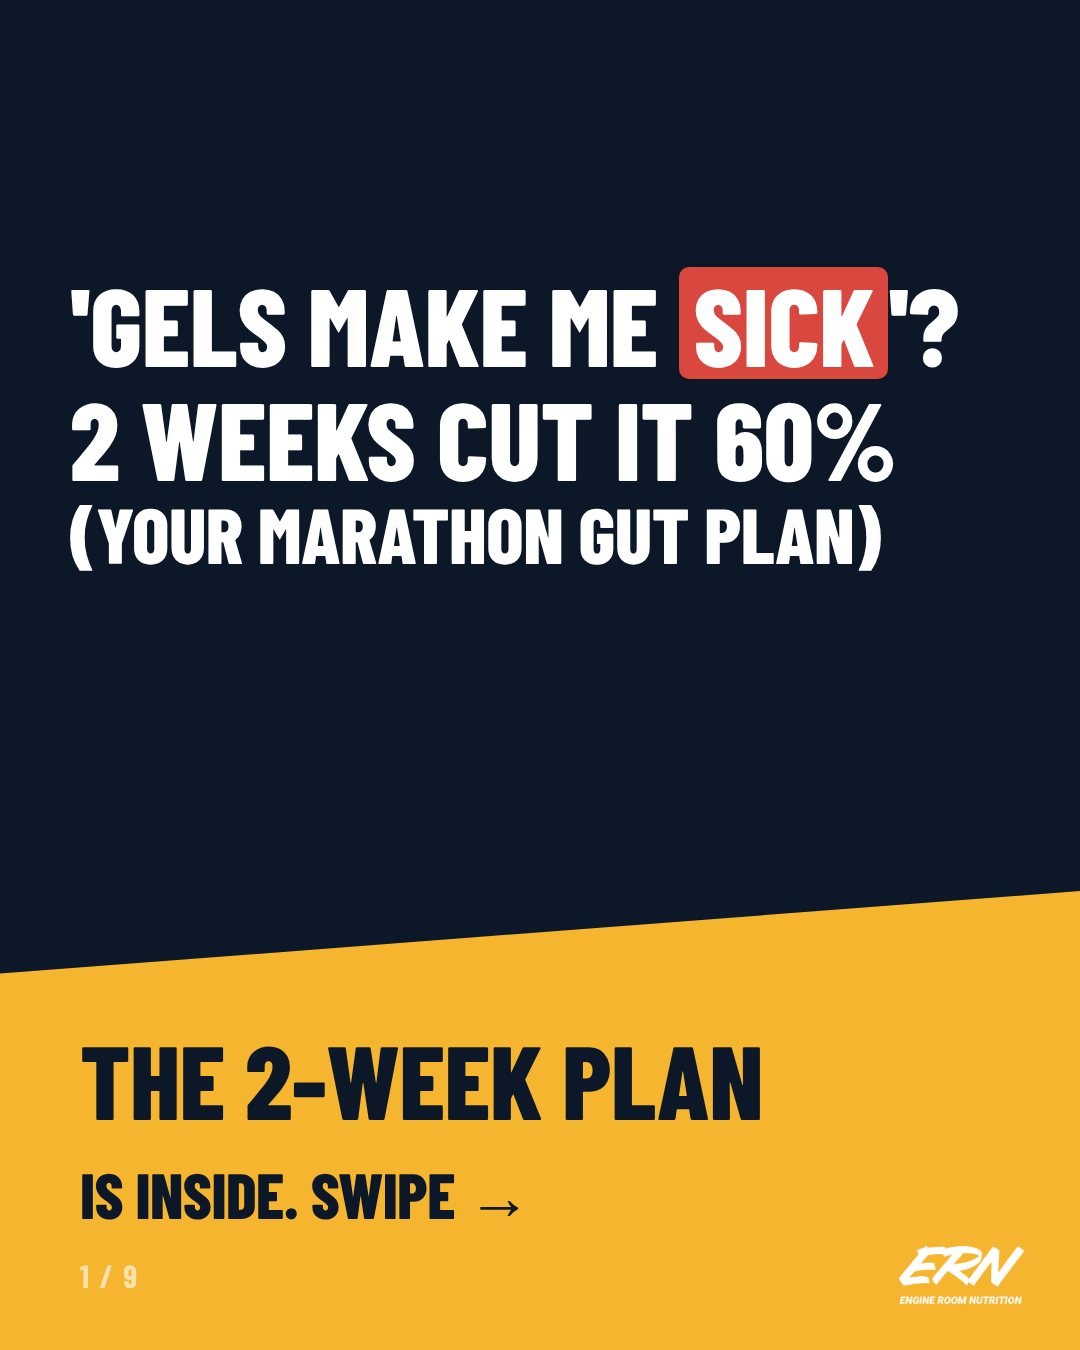
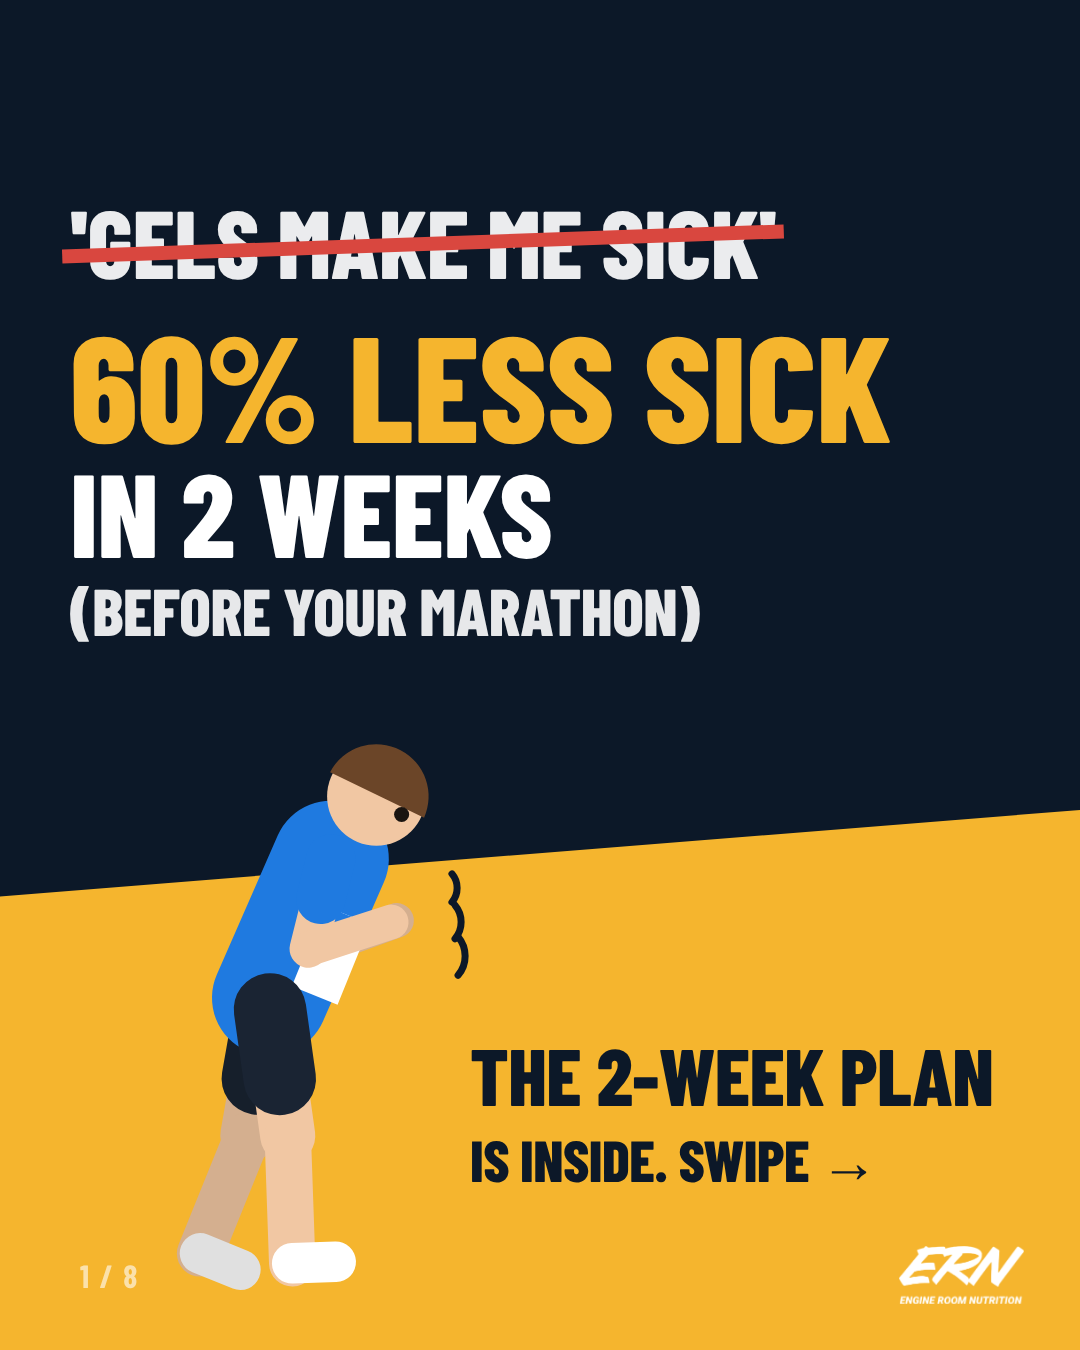
Gut carousel v2: struck-through myth cover with our runner, turn on slide 2, 8 slides; council and Ogilvy review
Claude-Session: https://claude.ai/code/session_01C5bFwjsy7wubJR84HAMdDJ

Changed region(s): [[0.0611, 0.1556, 0.8861, 0.4978], [0.0, 0.5289, 1.0, 0.9644]]

diff --git a/motion/carousel-gut/carousel.html b/motion/carousel-gut/carousel.html
@@ -25,29 +25,80 @@ td.r{text-align:right;color:var(--blue)}
 </style></head><body><div id="root"></div>
 <img class="logo" id="logo" src="../brand/ern-logo.png">
 <script>
-const Q=new URLSearchParams(location.search), H=+Q.get('h')||1350, n=+Q.get('n')||1, N=9;
+const D=Math.PI/180; const clamp=(x,a=0,b=1)=>Math.max(a,Math.min(b,x)); const lerp=(a,b,p)=>a+(b-a)*p;
+function rng(seed){return function(){seed|=0;seed=seed+0x6D2B79F5|0;let t=Math.imul(seed^seed>>>15,1|seed);t=t+Math.imul(t^t>>>7,61|t)^t;return((t^t>>>14)>>>0)/4294967296}}
+function shade(hex,k){const n=parseInt(hex.slice(1),16);const f=v=>Math.round(clamp(v*(1-k),0,255));return `rgb(${f(n>>16&255)},${f(n>>8&255)},${f(n&255)})`}
+const css=()=>'#1f7ae0';
+let c=null;
+const SKIN=['#f1c7a3','#d8a07a','#a86f4c','#7a4a2e','#f3d2b8','#c98b62']; const HAIR=['#2a1d15','#6b4528','#c99a5b','#1a1a1a','#8a3b1f','#d9c3a0'];
+function seg(x1,y1,x2,y2,w,col){c.strokeStyle=col;c.lineWidth=w;c.beginPath();c.moveTo(x1,y1);c.lineTo(x2,y2);c.stroke()}
+function leg(hx,hy,a,k){const kx=hx+44*Math.sin(a*D),ky=hy+44*Math.cos(a*D),s=a+k,ax=kx+44*Math.sin(s*D),ay=ky+44*Math.cos(s*D),f=s+90;
+  return{kx,ky,ax,ay,fx:ax+15*Math.sin(f*D),fy:ay+15*Math.cos(f*D)}}
+function arm(sx,sy,a,e){const ex=sx+32*Math.sin(a*D),ey=sy+32*Math.cos(a*D),b=a+e;return{ex,ey,hx:ex+30*Math.sin(b*D),hy:ey+30*Math.cos(b*D)}}
+/* o: x, g (ground y), s (scale), f (1 faces right, -1 left), look, pose, plus colours; returns hand positions in screen space */
+function person(o){
+  const p=Object.assign({hipN:0,hipF:0,kneeN:0,kneeF:0,shN:6,shF:-6,elN:12,elF:12,lean:2,head:0,lift:0},o.pose||{});
+  const L=Object.assign({top:'#8aa0b8',shorts:'#2c3a4d',skin:SKIN[1],hair:HAIR[0],shoe:'#ffffff'},o.look||{});
+  c.save();c.translate(o.x,o.g);c.scale((o.f||1)*o.s,o.s);c.lineCap='round';c.lineJoin='round';
+  if(o.alpha!=null)c.globalAlpha=o.alpha;
+  const lN=leg(0,0,p.hipN,p.kneeN),lF=leg(0,0,p.hipF,p.kneeF);
+  const hipY=-(Math.max(lN.ay,lF.ay,lN.fy,lF.fy)+7)-p.lift;
+  const T=64,lx=Math.sin(p.lean*D),ly=-Math.cos(p.lean*D);
+  const sx=(T-8)*lx,sy=hipY+(T-8)*ly,nx=T*lx,ny=hipY+T*ly;
+  const hd=p.lean+p.head,hx=nx+19*Math.sin(hd*D),hy=ny-19*Math.cos(hd*D);
+  const aN=arm(sx,sy,p.shN,p.elN),aF=arm(sx,sy,p.shF,p.elF);
+  const drawLeg=(l,a,far)=>{const sk=far?shade(L.skin,.12):L.skin,sh=far?shade(L.shorts,.15):L.shorts;
+    seg(0,hipY,l.kx,l.ky+hipY,19,sk);seg(l.kx,l.ky+hipY,l.ax,l.ay+hipY,16,sk);
+    seg(0,hipY,l.kx*.55,l.ky*.55+hipY,25,sh);seg(l.ax,l.ay+hipY,l.fx,l.fy+hipY,14,far?shade(L.shoe,.12):L.shoe)};
+  const drawArm=(a,far)=>{const sk=far?shade(L.skin,.12):L.skin;seg(sx,sy,a.ex,a.ey,13,sk);seg(a.ex,a.ey,a.hx,a.hy,12,sk);
+    seg(sx,sy,lerp(sx,a.ex,.45),lerp(sy,a.ey,.45),17,far?shade(L.top,.15):L.top)};
+  drawArm(aF,true);drawLeg(lF,0,true);
+  seg(0,hipY-4,sx,sy,40,L.top);
+  if(L.bib){c.save();c.translate(lerp(0,sx,.45),lerp(hipY,sy,.45));c.rotate(p.lean*D);c.fillStyle='#fff';c.fillRect(4,-15,17,30);c.fillStyle=css('blue');c.fillRect(4,-15,17,7);c.restore()}
+  if(L.name){c.save();c.translate(lerp(0,sx,.32)+6*lx,lerp(hipY,sy,.32));c.rotate(p.lean*D);c.fillStyle='#0b0b0b';c.font='italic 800 21px Barlow';c.textAlign='center';c.textBaseline='middle';c.fillText(L.name,6,0);c.restore()}
+  drawLeg(lN,0,false);
+  if(o.prop==='sign'&&o.sign){} // signs are drawn by the caller at the hands
+  drawArm(aN,false);
+  c.fillStyle=L.skin;c.beginPath();c.arc(hx,hy,17,0,7);c.fill();
+  c.fillStyle=L.hair;c.beginPath();c.arc(hx,hy,18,Math.PI*.92+hd*D,Math.PI*1.9+hd*D);c.closePath();c.fill();
+  c.fillStyle='#1a1410';c.beginPath();c.arc(hx+9*Math.cos(hd*D)+3*Math.sin(hd*D),hy+3*Math.cos(hd*D)+9*Math.sin(hd*D)-2,2.6,0,7);c.fill();
+  if(L.pony){c.beginPath();c.arc(hx-14*Math.cos(hd*D),hy+2,7,0,7);c.fill()}
+  if(L.cap){c.fillStyle=L.cap;c.beginPath();c.arc(hx,hy,16.5,Math.PI*1.0+hd*D,Math.PI*2.0+hd*D);c.fill();seg(hx+4,hy-3,hx+24,hy-1,5,L.cap)}
+  c.restore();
+  const tf=(x,y)=>({x:o.x+(o.f||1)*o.s*x,y:o.g+o.s*y});
+  return{handN:tf(aN.hx,aN.hy),handF:tf(aF.hx,aF.hy),head:tf(hx,hy),chest:tf(lerp(0,sx,.5),lerp(hipY,sy,.5))}}
+function run(ph,amp=1,lean=9){const a=ph*Math.PI*2;return{hipN:32*amp*Math.sin(a),hipF:32*amp*Math.sin(a+Math.PI),
+  kneeN:-(10+85*amp*Math.max(0,Math.cos(a))),kneeF:-(10+85*amp*Math.max(0,Math.cos(a+Math.PI))),
+  shN:-30*amp*Math.sin(a),shF:30*amp*Math.sin(a),elN:88,elF:88,lean,lift:7*amp*Math.abs(Math.cos(a))}}
+function mix(a,b,p){const o={};for(const k in a)o[k]=lerp(a[k],b[k]!=null?b[k]:a[k],p);return o}
+
+
+const Q=new URLSearchParams(location.search), H=+Q.get('h')||1350, n=+Q.get('n')||1, N=8;
 document.body.style.height=H+'px';
-const TITLE=(Q.get('title')||"'GELS MAKE ME SICK'? / 2 WEEKS CUT IT 60% / (YOUR MARATHON GUT PLAN)"), RED=(Q.get('red')||'SICK');
+const TITLE=(Q.get('title')||"'GELS MAKE ME SICK' / 60% LESS SICK / IN 2 WEEKS / (BEFORE YOUR MARATHON)"), RED=(Q.get('red')||'60%');
 const hl=(t)=>t.split(RED).join(`<span class="red">${RED}</span>`);
 const S={
-1:()=>{const L=TITLE.split(' / ');return {bg:'var(--navy)',logo:'white',html:`
+1:()=>{const L=TITLE.split(' / ');return {bg:'var(--navy)',logo:'white',cover:true,html:`
   <div style="position:absolute;left:70px;right:60px;top:0;height:${Math.round(H*.62)}px;display:flex;flex-direction:column;justify-content:center">
-   ${L.map((l,i)=>`<div class="h" style="color:#fff;font-size:${l.startsWith('(')?78:110}px;margin-top:${i?6:0}px">${hl(l)}</div>`).join('')}
+   <div class="h" style="font-size:96px;color:rgba(255,255,255,.92);position:relative;align-self:flex-start">${L[0]}<span style="position:absolute;left:-8px;right:-8px;top:46%;height:14px;background:var(--red);transform:rotate(-2deg)"></span></div>
+   <div class="h" style="color:var(--yel);font-size:150px;margin-top:26px">${L[1]}</div>
+   <div class="h" style="color:#fff;font-size:118px">${L[2]||''}</div>
+   <div class="h" style="color:#fff;font-size:66px;margin-top:12px;opacity:.9">${L[3]||''}</div>
   </div>
-  <div style="position:absolute;left:0;right:0;bottom:0;height:${Math.round(H*.34)}px;background:var(--yel);clip-path:polygon(0 18%,100% 0,100% 100%,0 100%)"></div>
-  <div style="position:absolute;left:80px;bottom:${Math.round(H*.09)}px;display:flex;align-items:center">
-    <div class="h" style="font-size:104px;color:var(--navy)">THE 2-WEEK PLAN<br><span style="font-size:64px">IS INSIDE. SWIPE →</span></div>
+  <div style="position:absolute;left:0;right:0;bottom:0;height:${Math.round(H*.40)}px;background:var(--yel);clip-path:polygon(0 16%,100% 0,100% 100%,0 100%)"></div>
+  <canvas id="cv" width="1080" height="${H}" style="position:absolute;left:0;top:0"></canvas>
+  <div style="position:absolute;left:470px;right:60px;bottom:${Math.round(H*.12)}px">
+    <div class="h" style="font-size:80px;color:var(--navy)">THE 2-WEEK PLAN<br><span style="font-size:58px">IS INSIDE. SWIPE →</span></div>
   </div>`}},
-2:()=>({bg:'var(--yel)',html:`
-  <span class="tag" style="background:var(--navy);color:#fff;align-self:flex-start">THE RESEARCH</span>
-  <div class="h" style="font-size:330px">60%</div>
-  <div class="h" style="font-size:86px;margin-top:6px">FEWER STOMACH PROBLEMS<br>ON A 2-HOUR RUN</div>
-  <div class="p" style="margin-top:44px">after just 2 weeks of taking carbs on every run.</div>
-  <div class="src">25 endurance runners trained with 90g of carbs an hour, then ran 2 hours (Costa and others, Monash University, 2017). The placebo group didn't change.</div>`}),
+2:()=>({bg:'var(--white)',html:`
+  <span class="tag" style="background:var(--navy);color:#fff">WHAT CHANGED</span>
+  <div class="h" style="font-size:150px">NOT A NEW GEL.<br><span style="color:var(--blue)">PRACTICE.</span></div>
+  <div class="p" style="margin-top:46px">25 runners took carbs on every 1-hour run for 2 weeks. On a 2-hour run, their stomach problems fell by 60%.</div>
+  <div class="src">The placebo group didn't change. Costa and others, Monash University, 2017 (they trained with 90g of carbs an hour).</div>`}),
 3:()=>({bg:'var(--white)',html:`
-  <span class="tag" style="background:var(--yel);color:var(--navy);align-self:flex-start">WHAT THEY DID</span>
-  <div class="h" style="font-size:120px">2 WEEKS.<br>1-HOUR RUNS.<br><span style="color:var(--blue)">CARBS EVERY<br>20 MINUTES.</span></div>
-  <div class="p" style="margin-top:50px">That's all it took. Your gut adapts to what you practise, just like your legs.</div>`}),
+  <span class="tag" style="background:var(--red);color:#fff;align-self:flex-start">THE MISTAKE</span>
+  <div class="h" style="font-size:118px">WATER-ONLY<br>LONG RUNS.<br><span style="color:var(--red)">GELS FOR THE<br>FIRST TIME AT<br>THE MARATHON.</span></div>
+  <div class="p" style="margin-top:46px">Your legs got 16 weeks of training. Your gut got none.</div>`}),
 4:()=>({bg:'var(--navy)',logo:'white',html:`
   <span class="tag" style="background:var(--yel);color:var(--navy);align-self:flex-start">AND IT GOT THEM FURTHER</span>
   <div class="h" style="color:#fff;font-size:100px">IN A 1-HOUR RUN</div>
@@ -57,11 +108,7 @@ const S={
     <div class="h" style="color:var(--yel);font-size:190px">12.3K</div></div>
   <div class="p" style="color:#fff;margin-top:50px">Breath tests showed about half as much of the sugar going unabsorbed.</div>
   <div class="src" style="color:#fff">Miall and others, 2018.</div>`}),
-5:()=>({bg:'var(--white)',html:`
-  <span class="tag" style="background:var(--red);color:#fff;align-self:flex-start">THE MISTAKE</span>
-  <div class="h" style="font-size:118px">WATER-ONLY<br>LONG RUNS.<br><span style="color:var(--red)">GELS FOR THE<br>FIRST TIME AT<br>THE MARATHON.</span></div>
-  <div class="p" style="margin-top:46px">Your legs got 16 weeks of training. Your gut got none.</div>`}),
-6:()=>({bg:'var(--blue)',logo:'white',html:`
+5:()=>({bg:'var(--blue)',logo:'white',html:`
   <span class="tag" style="background:#fff;color:var(--blue);align-self:flex-start">YOUR 2-WEEK GUT PLAN</span>
   <div class="h" style="color:#fff;font-size:104px">EVERY RUN OF<br>AN HOUR OR MORE:</div>
   <div class="p" style="color:#fff;font-size:50px;margin-top:40px;line-height:1.45">
@@ -69,7 +116,7 @@ const S={
    <b style="color:var(--yel)">2.</b> The same gel you'll race with.<br>
    <b style="color:var(--yel)">3.</b> A few sips of water with each one.</div>
   <div class="src" style="color:#fff">The study used 90g an hour. Your race clock is 60g an hour, so practise that.</div>`}),
-7:()=>({bg:'var(--white)',html:`
+6:()=>({bg:'var(--white)',html:`
   <span class="tag" style="background:var(--navy);color:#fff;align-self:flex-start">SCREENSHOT THIS</span>
   <div class="h" style="font-size:80px">YOUR GELS, BY RUN LENGTH</div>
   <div class="p" style="font-size:40px;margin-top:14px">30g gels at 0:20, then every 30 minutes. None in the last 20 minutes.</div>
@@ -80,19 +127,26 @@ const S={
    <tr><td>2½ HOURS</td><td class="r">4 GELS · LAST 1:50</td></tr>
    <tr><td>3 HOURS</td><td class="r">5 GELS · LAST 2:20</td></tr></table>
   <div class="src">40g gels: every 40 minutes. 20 to 25g gels: every 20. Same clock on race day.</div>`}),
-8:()=>({bg:'var(--yel)',html:`
+7:()=>({bg:'var(--yel)',html:`
   <span class="tag" style="background:var(--navy);color:#fff;align-self:flex-start">WHEN TO START</span>
   <div class="h" style="font-size:112px">2 WEEKS BEFORE<br>YOUR MARATHON,<br>AT THE LATEST.</div>
   <table style="margin-top:46px">
    <tr><td>VALENCIA · 6 DEC</td><td class="r" style="color:var(--navy)">START SUN 22 NOV</td></tr>
    <tr><td>SPRING MARATHON</td><td class="r" style="color:var(--navy)">YOUR NEXT LONG RUN</td></tr></table>`}),
-9:()=>({bg:'var(--navy)',logo:'white',html:`
-  <div class="h" style="color:#fff;font-size:118px">SEND THIS TO<br>WHOEVER YOU DO<br><span style="color:var(--yel)">YOUR LONG RUNS</span><br>WITH.</div>
+8:()=>({bg:'var(--navy)',logo:'white',html:`
+  <div class="h" style="color:#fff;font-size:100px">SEND THIS TO<br>THE FRIEND WHO SAYS<br><span style="color:var(--yel)">'GELS MAKE<br>ME SICK'</span></div>
   <div class="p" style="color:#fff;margin-top:60px">Want your race-day gel clock for your goal time? Email us through the link in our bio and we'll send it free.</div>
   <div class="h src" style="color:var(--yel);font-size:60px;opacity:1">FOLLOW @ENGINEROOMNUTRITION</div>`}),
 };
-const s=S[n](); document.body.style.background=s.bg;
+const s=S[n]();
+ document.body.style.background=s.bg;
 document.getElementById('root').innerHTML=`<div class="slide" style="background:${s.bg};height:${H}px">${s.html}</div><div class="n" style="color:${s.logo?'#fff':'var(--navy)'}">${n} / ${N}</div>`;
 if(s.logo==='white') document.getElementById('logo').src='../brand/ern-logo-white.png';
+if(s.cover){c=document.getElementById('cv').getContext('2d');
+  const p=person({x:270,g:H-60,s:2.9,f:1,look:{top:'#1f7ae0',shorts:'#1a2433',skin:SKIN[0],hair:HAIR[1],shoe:'#ffffff',bib:true},
+    pose:{hipN:8,hipF:-10,kneeN:-6,kneeF:-12,shN:-14,elN:122,shF:-10,elF:120,lean:22,head:20,lift:0}});
+  const h=p.handN; c.strokeStyle='#0c1828';c.lineWidth=7;c.lineCap='round';
+  [[0,-1],[1,0],[0,1]].forEach(([a,b],i)=>{c.beginPath();c.arc(h.x+44,h.y+b*34,22+i*4,-0.7,0.7);c.stroke();});
+}
 document.fonts.ready.then(()=>{document.title='ready'});
 </script></body></html>

diff --git a/ideas/engine-room-nutrition/2026-11-19-carousel-gut.md b/ideas/engine-room-nutrition/2026-11-19-carousel-gut.md
@@ -2,12 +2,14 @@
 type: carousel (gated by hand: check.py is for scripts; title checker, cold reviewer, facts and humanizer done here)
 generated_at: 2026-11-19
 brief_ok: pending Luke (repeat: gut training was one stage of the 1 Oct stomach reel and Luke's 16 Sep personal reel; the C21 precedent says Luke OKs a repeat)
-format: Instagram carousel (ERN collab), 1080 x 1350 (4:5), 9 slides; TikTok photo mode at 1080 x 1440 from the same page (?h=1440)
-images: motion/carousel-gut/instagram-4x5/slide-01..09.png (page motion/carousel-gut/carousel.html, ?n=&h=); contact sheet motion/carousel-gut/contact-sheet.png
+format: Instagram carousel (ERN collab), 1080 x 1350 (4:5), 8 slides (v2); TikTok photo mode at 1080 x 1440 from the same page (?h=1440)
+images: motion/carousel-gut/instagram-4x5/slide-01..08.png (page motion/carousel-gut/carousel.html, ?n=&h=); contact sheet motion/carousel-gut/contact-sheet.png
 titles: 2026-11-19-titles-carousel-watch.md (+ -review: killed, a repeat of 14 Oct, 18 Oct, 20 Oct, 6 Nov), 2026-11-19-titles-carousel-gut.md (+ -review)
 ---
 
-# 'GELS MAKE ME SICK'? / 2 WEEKS CUT IT 60% / (YOUR MARATHON GUT PLAN)
+# 'GELS MAKE ME SICK' (struck through) / 60% LESS SICK IN 2 WEEKS / (BEFORE YOUR MARATHON)
+
+v2 after the second review (council, Ogilvy, scorecard), 8 slides. v1 cover and slide plan kept below the review for the record.
 
 ## Why the last carousel underperformed (heavier, 16 Nov)
 IG: 2,865 views, reach 1,362, saves 8 (0.6% of reach), shares 3, likes 30 (2.2%). About 2 views per person, so most people saw 1 or 2 of the 19 slides.
@@ -20,6 +22,19 @@ IG: 2,865 views, reach 1,362, saves 8 (0.6% of reach), shares 3, likes 30 (2.2%)
 - **9 slides, one message each, Engine Room colours** (navy, yellow, blue, white; red for the feeling word), the templates' big condensed type and colour blocks, no clutter.
 - **A slide to screenshot** (7: gels by run length on our race clock) and a dated start (8: Valencia, start Sun 22 Nov).
 - **A send line that flatters the friend** (9: whoever you do your long runs with).
+
+
+## The slides (v2)
+| # | Background | Text |
+|---|---|---|
+| 1 | Navy, yellow band, our runner hunched with an arm across his stomach | 'GELS MAKE ME SICK' struck through in red; **60% LESS SICK** (yellow) / **IN 2 WEEKS** / (BEFORE YOUR MARATHON); THE 2-WEEK PLAN IS INSIDE. SWIPE → |
+| 2 | White | WHAT CHANGED. NOT A NEW GEL. PRACTICE. 25 runners took carbs on every 1-hour run for 2 weeks. On a 2-hour run, their stomach problems fell by 60%. Source: the placebo group didn't change; Costa and others, Monash University, 2017 (they trained with 90g of carbs an hour). |
+| 3 | White | THE MISTAKE. WATER-ONLY LONG RUNS. GELS FOR THE FIRST TIME AT THE MARATHON. Your legs got 16 weeks of training. Your gut got none. |
+| 4 | Navy | AND IT GOT THEM FURTHER. IN A 1-HOUR RUN 11.7K → 12.3K. Breath tests showed about half as much of the sugar going unabsorbed. (Miall and others, 2018) |
+| 5 | Blue | YOUR 2-WEEK GUT PLAN (unchanged from v1 slide 6) |
+| 6 | White | SCREENSHOT THIS: your gels by run length (unchanged from v1 slide 7) |
+| 7 | Yellow | WHEN TO START (unchanged from v1 slide 8) |
+| 8 | Navy | SEND THIS TO THE FRIEND WHO SAYS 'GELS MAKE ME SICK'. Want your race-day gel clock for your goal time? Email us through the link in our bio and we'll send it free. FOLLOW @ENGINEROOMNUTRITION |
 
 ## Gate fields
 - Cover OST: 'GELS MAKE ME SICK'? / 2 WEEKS CUT IT 60% / (YOUR MARATHON GUT PLAN), SICK in red
@@ -80,3 +95,37 @@ What does your stomach do on a long run with gels? Tell us the K it starts.
 - Repeat of the gut-training payoff (1 Oct, 16 Sep): needs Luke's OK.
 - 8/10, under the scorecard's 9.
 - The study is on trained endurance runners at 90g an hour; our plan is 60g. Said on slide 6.
+
+## Second review of the opening (Luke 19 Nov: council, Ogilvy, the scorecard and the checklists)
+
+### v1 on our own scorecard (my honest score; the cold reviewer gave it 8)
+| Test | v1 'GELS MAKE ME SICK'? / 2 WEEKS CUT IT 60% / (YOUR MARATHON GUT PLAN) |
+|---|---|
+| 1 Pulse word | 0: SICK is a complaint in quotes, not a threat |
+| 2 Viewer | 1: YOUR |
+| 3 One second | 0: "cut IT" is blind (cut what?), "2 weeks" of what? |
+| 4 Belief broken | 1: "my stomach can't do gels" |
+| 5 Exact number | 1: 60%, 2 weeks |
+| 6 Outsider stops | 0 |
+| 7 Only we | 0: a repeat for us, common elsewhere |
+| 8 Pub test | 0: nobody says "2 weeks cut it 60%" |
+| 9 Reason to stay | 1: the plan in brackets |
+| 10 Top line carries the pulse | 0: a question up top |
+| **Total** | **4** |
+Plus: slide 2 repeated the cover's 60% (ledger row 29: each layer says something new), and the cover had no picture, so nothing stopped a thumb before the words did.
+
+### Ogilvy
+- Five times as many read the headline as the body: the cover carries the whole promise (the myth, the result, the time), and slide 2 is the turn, not a repeat.
+- Quotation marks lift recall (he put it at 28%): keep the runner's own words, but kill them on screen with a red strike (P206, the myth struck through).
+- No blind headlines: v1's "cut IT" meant nothing without the body. v2 says it plainly: 60% LESS SICK IN 2 WEEKS.
+- Specific facts, not adjectives: 60%, 2 weeks, a 2-hour run, 25 runners.
+- Story appeal in the picture: one person, the moment they know (hunched, arm across his stomach): the pain as a picture (P176 stack, step 2), one person (ledger row 4).
+
+### The council
+- **Contrarian:** "60% less sick" stretches a symptom score on a 2-hour run in trained runners at 90 g an hour. Slide 2 says the 2-hour run and slide 5 says 60 g, so the cover can stand; never "60% less sick at 30K".
+- **Assumption-ripper:** the inbox says "sick of the texture" and "hack it down" more than nausea. "Gels make me sick" covers both in how runners talk, which widens who stops.
+- **Expansionist:** every runner knows someone who says it, so the send line should name that friend and close the loop with the cover: SEND THIS TO THE FRIEND WHO SAYS GELS MAKE THEM SICK. It quotes them and hands them the fix, so it reads as help, not a dig.
+- **Outsider:** "marathon gut plan" reads as a belly. The bracket should be a deadline in plain words: (BEFORE YOUR MARATHON). The yellow band already promises the plan.
+- **Executor:** post it as the collab today, pin the comment, TikTok 3:4 from the same page. Judge at 24 hours on two numbers: saves at 1.5%+ of reach (the heavier carousel got 0.6%) and over 3 views a person (the heavier got about 2).
+- **Blind cross-review:** the Outsider's bracket and the Expansionist's send line change the most for the least; the Contrarian's caveat is already met by slides 2 and 5; the Assumption-ripper's point needs no change.
+- **Chairman verdict:** C2 with the Outsider's bracket and the Expansionist's send line. Slide 2 becomes the turn (NOT A NEW GEL. PRACTICE.), the old "what they did" slide goes, so it's 8 slides.

diff --git a/ideas/engine-room-nutrition/2026-11-19-titles-carousel-gut-v2.md b/ideas/engine-room-nutrition/2026-11-19-titles-carousel-gut-v2.md
@@ -1,0 +1,19 @@
+---
+type: carousel cover, second review (Luke 19 Nov: "as a secondary review by the council and by Ogilvy and all the OSTs we have and our checklists and scoring, how would the open hook or image be improved to make people stay, save or send")
+v1: 'GELS MAKE ME SICK'? / 2 WEEKS CUT IT 60% / (YOUR MARATHON GUT PLAN)
+slide 2 v1: THE RESEARCH / 60% FEWER STOMACH PROBLEMS ON A 2-HOUR RUN (repeats the cover's 60%)
+slide 2 v2: WHAT CHANGED / NOT A NEW GEL. PRACTICE. / 25 runners took carbs on every 1-hour run for 2 weeks; on a 2-hour run their stomach problems fell by 60%
+cover picture v2: our runner hunched, arm across his stomach, on the yellow band; THE 2-WEEK PLAN IS INSIDE. SWIPE →
+---
+
+## C1
+title: 'GELS MAKE ME SICK'? / 2 WEEKS CUT IT 60% / (YOUR MARATHON GUT PLAN)
+red: SICK
+stranger: 60% of what? stomach symptoms on a 2-hour run, slide 2 | 2 weeks of what? slide 2
+luke_said: none
+
+## C2
+title: 'GELS MAKE ME SICK' / 60% LESS SICK / IN 2 WEEKS / (YOUR MARATHON GUT PLAN)
+red: 60% LESS SICK (in yellow; the top line is struck through in red: the myth killed)
+stranger: 60% less sick where? on a 2-hour run, slide 2 | 2 weeks of what? carbs on every run, slide 2 | your gut plan? slides 5 to 7
+luke_said: none
